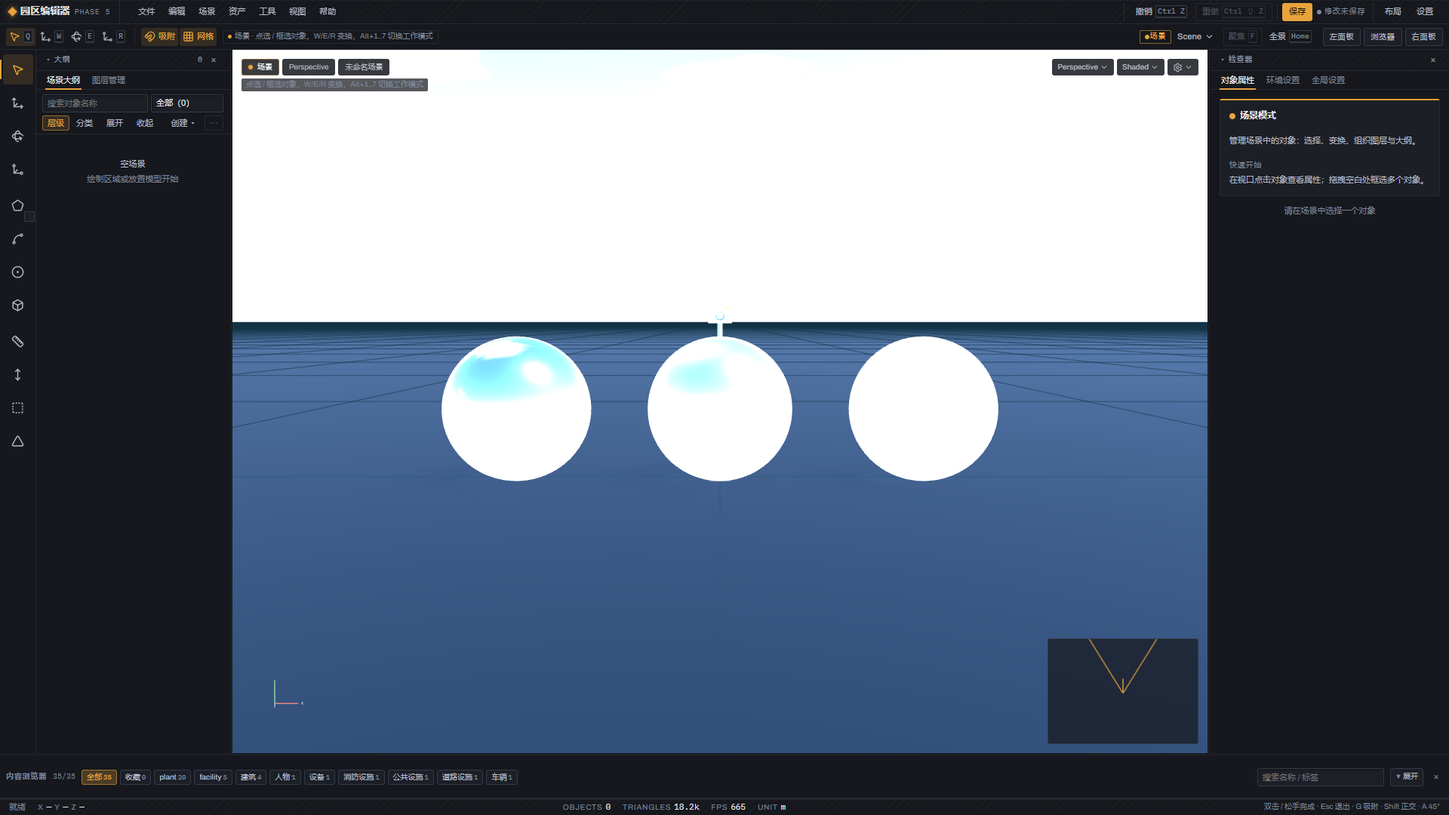
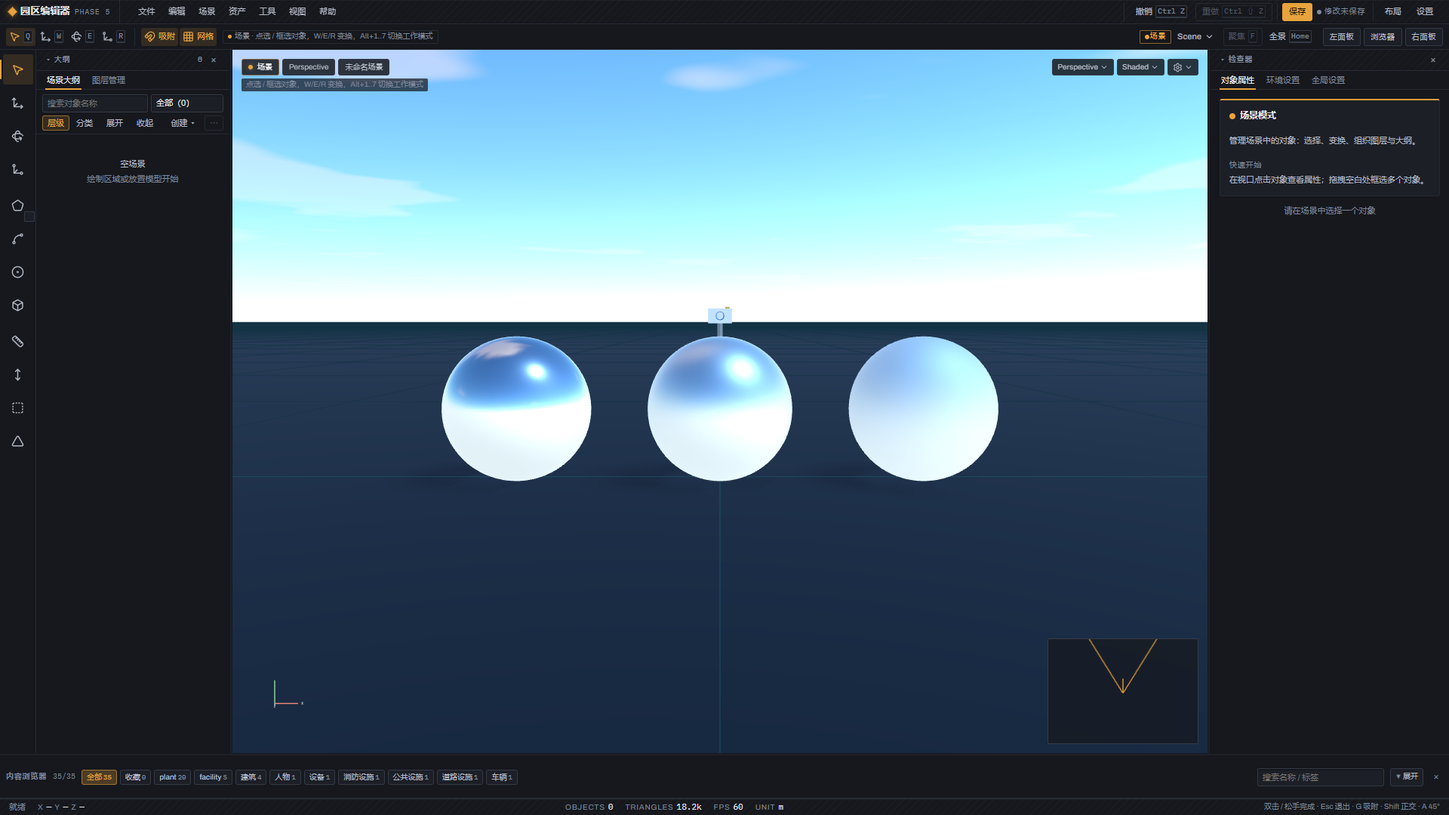
T018.5 收官：epic 十二条对照全过 + 过曝处置 D39 记档——T018 5/5 收官（收官会话交付，主代理代提交）
- tech 六主体帧补正：checkpoint 后复核发现 24 帧首拍时 tech 仍为中间态（display 1/ibl 0.7，t0185-visual.log presetParams 为证）→ t0185-tech-refinal.mjs 同款协议复拍覆盖（终值 live 断言 0.2/0.15 + GLB scale 0.5042 协议对称 + pmrem owned=1 + console 零错）——24 对新旧对照全终值态（tech skyTop 242.5→186.3 脱满白、ground 73→38.3 回归暗蓝语义）；取证前 kill 5173 残留重启 Vite + curl 验证模块新鲜（工具教训第三次呼应）
- 判读收口（epic 第 3 条）：018.0 legacy 六主体无环境贴图（金属近黑、GLB/路灯无反光带）→ 终值态金属三球反射蓝天白云 + GGX 阶梯可辨（day i0.15 / tech d0.2 双预设）、植被叶面环境光遮蔽层次、路灯/GLB 反光带；day 天空带与 legacy 渐变逐位对齐、dusk/night 亮度上移为真实大气+IBL 方向性改善；对照表 tools/t0185-compare.log
- p95 增量口径裁定（第 9 条，D39 第 3 条记档）：同实例 IBL on/off 三轮交替 Δ≈+0.1~0.2ms——≤1.5ms 绝对 ✓ / ≤基线 10% ✓；可测性边界记档（empty 档 10% = 0.04–0.06ms 小于噪声 ±0.2ms 不可测，相对判据有效域 = 重载档）
- 过曝处置 DECISIONS D39：显示域压缩选定（day 0.22/0.15、tech 0.2/0.15 终值）+ tone mapping 重审弃选（D29.3 修订须用户裁定不触发；ACES 证据留 T019 素材指针）+ p95 口径配套记档；D29.3 本体未修订
- 018.5 README 落盘：终调定值表 + tech 补正记档 + 新旧判读收口 + 性能资源读数 + epic 十二条逐条对照表全过（不重跑项按 D31 以已落证据收口：渐变退役/三一致/PMREM 触发清单/fallback/dispose 链/渲染遍兼容）+ 工具教训两条（常驻 dev server 模块陈旧须 curl 验证 / 验收快照必须终值定案后统一时点拍摄）
- 三门槛收官会话自验 + 本提交前复验均全绿：npm test 4034（259 文件）/ check:layers 601 / typecheck 零错
- 同步：TASKS Current 清空（T018 移入 Done 5/5）/ PROGRESS 快照刷新（基线 4034）/ 018 epic 与 018.5 任务书完成记录收口
- 索引补行：收官会话漏登 D39 索引行，主代理按「新增决策必须同步本表一行」补登（同步规则首个实测失败例，记档于该行 Note）——集合相等复验 40==40 零漏登零幽灵

diff --git a/tasks/018-real-sky-environment.md b/tasks/018-real-sky-environment.md
@@ -1,6 +1,6 @@
 # T018 真实程序化天空与环境光照
 
-> 立项：2026-09-20（grilling 两轮逐题裁定，**D29**；用户参考方案逐字归档 [docs/sky-reference.md](../docs/sky-reference.md)——输入材料不再更新，冲突处以 D29 为准）。前置：~~T011 族级验收门 + T006.6 Step 3 之后~~ → **2026-09-23 用户指令「先跑 T18」取代原排期**：T011 族门已收官（2026-09-23）；T006.6 Step 3（A/B 实测 + 阈值重锁判定）不再阻塞本任务，改在 018.5 验收后或并行执行（天空变化对选档分布实测无干扰——选档度量 = 距离/半径，与视觉环境无关）。**状态：in-progress（018.0 前置 + 018.1 + 018.2 + 018.3 + 018.4 done 2026-09-23；余 018.5 验收——DEV 终调面已就绪：`__sky` 读写/flush + pmremStats 账目；day/tech 过曝处置〔tone mapping 重审 or displayIntensity/iblIntensity 显示域压缩〕终调实操归 018.5）**。**2026-09-20 同日修订（用户指令，D29.11-14）：任务核心扩为 Sky + Sun + r186 内建 Cloud + PMREM（cloudSpeed=0 静态云）+ displaySky/bakeSky 双实例。**
+> 立项：2026-09-20（grilling 两轮逐题裁定，**D29**；用户参考方案逐字归档 [docs/sky-reference.md](../docs/sky-reference.md)——输入材料不再更新，冲突处以 D29 为准）。前置：~~T011 族级验收门 + T006.6 Step 3 之后~~ → **2026-09-23 用户指令「先跑 T18」取代原排期**：T011 族门已收官（2026-09-23）；T006.6 Step 3（A/B 实测 + 阈值重锁判定）不再阻塞本任务，改在 018.5 验收后或并行执行（天空变化对选档分布实测无干扰——选档度量 = 距离/半径，与视觉环境无关）。**状态：done（**5/5 epic 收官 2026-09-23**——018.0 前置 + 018.1 Sky+Sun+Cloud + 018.2 PMREM/IBL + 018.3 预设+fallback + 018.4 DEV 调参 + 018.5 验收收官全链交付）**。**2026-09-20 同日修订（用户指令，D29.11-14）：任务核心扩为 Sky + Sun + r186 内建 Cloud + PMREM（cloudSpeed=0 静态云）+ displaySky/bakeSky 双实例。**
 
 ## Goal
 
@@ -50,7 +50,7 @@ Renderer 环境从「CanvasTexture 渐变天空 + HemisphereLight + 固定太阳
 - [x] 018.2 PMREM / IBL（bake scene / 太阳盘隐藏 / 事务提交 / owned-live counter / environmentIntensity + 显示侧旋钮）→ [018.2-pmrem-ibl.md](018.2-pmrem-ibl.md)（done 2026-09-23——park-shader-agent 显示强度 uniform + threejs-runtime-agent PMREM 管线 + 主代理审查/复验/视觉验证：**fromScene far=10000 锁定**〔缺省 100 整盒裁剪〕+ 事务天然保留旧环境 + 25 测试 3971 全绿；金属/GLB/路灯 env 反射可辨〔GGX roughness 分档可见〕；growth10 零增长；p95 归因 **IBL 采样固有帧成本 ≈+0.5ms** 移交 018.5 裁定〔第二判据 10% 口径风险〕；environmentIntensity 直写不触发材质刷新记档 018.4 提醒）
 - [x] 018.3 EnvironmentPreset + fallback（四预设新参数面 / Hemi 删除 / 事务式 fallback 单一开关 / 运行中失败保留旧环境）→ [018.3-preset-fallback.md](018.3-preset-fallback.md)（done 2026-09-23 两会话——threejs-runtime-agent 交付 + 主代理审查/复验/视觉验证 + 会话二疑点闭环：environmentPresets 统一预设面〔SKY_PRESET_ATMOSPHERE 收口〕+ setupSkyEnvironment 事务构建〔单一开关无混合态 + 初烘失败 legacy 整组降级 / 重烘失败保留旧环境〕+ Hemi 正常路径删除〔D29.4〕；+26 测试 **3997 / 597 / 零错**；四预设 environmentIntensity 1/0.85/0.35/0.7 精确生效、fallback monkey-patch 全过、交替 growth10 零泄漏；**「直射光像素零贡献」机制疑点定论：Preetham HDR 天空 + NoToneMapping（D29.3）day 大面积 clamp 254 饱和，管线健康非 bug**〔直射/阴影在 env null 与 ACES 下完全正常；wrap 原型实验无效——three render 为实例方法〕；**day/tech 过曝 + tone mapping 决策重审移交 018.4/018.5**〔ACES 实证 56% 画面改善、ACES 下太阳开关 31.9%/34.4% 响应〕）
 - [x] 018.4 DEV 调参面（__sky 守卫 / 参数实时调 / PMREM debounce）→ [018.4-dev-tuning.md](018.4-dev-tuning.md)（done 2026-09-23——threejs-runtime-agent 单步交付 + 主代理审查/复验/视觉验证：skyRebake debounce 层〔200ms + 调度器注入 + cancel〕+ skyTuning 调参端口〔八键白名单 + 太阳角三一致内聚 + ibl 借道重烘刷新〕+ sunLight 字段提升 + `__sky` DEV 守卫〔legacy 显式抛错〕；20 连写恰一次重烘实测 / display 零重烘跨窗实证〔显示域压缩工具面可用〕/ ibl immediate-settled 差分 / 太阳角双 run 视觉〔含 sunlow 异常帧两轮复核定案为取证层作废〕；+36 测试 **4033 / 601 / 零错**）
-- [ ] 018.5 验收（视觉新旧对比 / 性能抽检 / 资源账 / 回归三门槛）→ 018.5-acceptance.md
+- [x] 018.5 验收（视觉新旧对比 / 性能抽检 / 资源账 / 回归三门槛）→ [018.5-acceptance.md](018.5-acceptance.md)（done 2026-09-23 两会话——终调定值〔day 0.22/0.15、tech 0.2/0.15 显示域压缩，dusk 白区反打定案自然眩光维持原值〕+ 预设落地〔threejs-runtime-agent，displayIntensity 键 + 构建期应用 + 绝对锚重锚〕+ 取证〔24 帧新旧对照全终值态（tech 六帧终值定案后补拍复跑）/ 同实例 IBL 增量 +0.1~0.2ms 双判据过 / 资源账 6 轮 38/5/21 恒定 owned=1 / 冻结云 6 像素 ±1 / warm rebake 0.4–0.9ms〕+ epic 十二条逐条收口全过 + 过曝处置裁定记档 **D39**；三门槛 **4034 / 601 / 零错**）
 
 依赖链：**018.0 Preflight（018.1 前置）** → 018.1 → 018.2 → 018.3 → 018.4 → 018.5（018.5 候选参数终调直接用 018.4 的 DEV 面；串行维持会话粒度纪律与审查带宽）。
 
@@ -73,3 +73,4 @@ Renderer 环境从「CanvasTexture 渐变天空 + HemisphereLight + 固定太阳
 - 2026-09-23 **018.0 + 018.1 done**（单会话：主代理前置取证 → threejs-runtime-agent 交付 → 主代理审查/复验/增量视觉验证）。018.0：legacy 全参数快照 + 四预设 × 六主体 24 帧 + p95 三档基线（empty/100/1000 棵）+ info 账目 + **legacy 预设切换线性泄漏 +1 geo/+2 tex 每次实测记档**（GridHelper LineSegments + 灯光 shadow map 不释放——clearEnvironment 只判 isMesh 的盲区）。018.1：sunDirectionOf 纯函数 + SkyCore 双实例 + Renderer 接线（渐变背景退役、太阳同向同模长替换、相机跟随、disposeEnvironmentObjectTree 顺路修复上述泄漏）+ 28 测试；验证全过——三一致探针 dot 0.99999994（零漂移）/ 阴影方向视觉核验一致 / 跟随无黑边 / 诊断遍天空照常 / console 零错误 / 泄漏复测 10 轮零增长 / p95 Δ+0.10ms（预算内）；三门槛 **3946 / 591 / 零错**。基线更新：npm test 3918 → **3946**、check:layers 586 → **591**。
 - 2026-09-23 **018.2 done**（单会话两步串行派遣：park-shader-agent 显示强度 uniform 注入 → threejs-runtime-agent PMREM 管线 → 主代理审查/复验/增量视觉验证，取证 `docs/acceptance/t018/018.2/`）。交付：`pmremEnvironment.ts` 事务管理器（fromScene **far=10000** 锁定——缺省 100 整盒裁剪天空；先替换后释放 + 失败赋值不发生天然保留旧环境；owned/retired counter；构造拒绝主 Scene 直烘）+ SkyCore 第三参 onParamsChanged 回调（三写入口恰一次重烘，time 恒不触发）+ `uDisplayIntensity` 显示强度（仅 displaySky 注入，bakeSky 逐字节零污染）+ Renderer 接线（初烘/消费者先撤释放/environmentIntensity=1）。+25 测试（含 `?raw` 结构断言 renderFrame 零 PMREM）。验证：IBL 挂接探针（mapping 306/imageWidth 768）/ 金属三球 018.0 近黑 → 反射蓝天白云（GGX 分档可见）+ GLB 金属杆 + 路灯反光带三主体可辨 / growth10 恒定零增长 / 切换耗时 30–33ms（含初烘+generator 重编译，≤100ms 参考门内）/ **p95 A/B：IBL on 5.60 vs envNull 5.10（同 session）= IBL 采样固有帧成本 ≈+0.5ms，跨实例漂移 ≈+0.6ms——018.5 验收第 9 条第二判据（≤10%）风险记档，建议同实例 on/off 差为增量口径**；无效帧 environmentIntensity 直写不刷新材质（WebGLRenderer.js:2738）记档 018.4 提醒。三门槛 **3971 / 593 / 零错**。基线更新：npm test 3946 → **3971**、check:layers 591 → **593**。
 - 2026-09-23 **018.4 done**（单会话：threejs-runtime-agent 单步交付 + 主代理审查/复验/视觉验证，取证 `docs/acceptance/t018/018.4/`）。交付：`skyRebake.ts`（debounce 层：REBAKE_DEBOUNCE_MS=200 + RebakeScheduler 注入面 + trigger 合并/flush 双防线/cancel 幂等）+ `skyTuning.ts`（调参端口：SkyTuningPort 零 THREE 表面 + ATMOSPHERE_KEYS 八键白名单 satisfies+运行时双锁〔cloudSpeed 结构性不可达〕+ setSunAngles 三一致内聚 + setIblIntensity 直写+借道重烘〔RangeError 加严〕+ params 太阳角反解）+ environmentSetup rebake 包层（**回调上游**，018.3 catch 语义原样保留在触发体内；outcome sky 分支带出句柄）+ Renderer（sunLight 字段提升 + skyTuning getter + clearEnvironment 首步 cancel pending）+ bootstrap `__sky` 守卫（live getter / legacy 显式抛错 / 装配卸载成对）。验证全过：20 连写立即零重烘→停手恰一次（baked 1→2）/ displayIntensity 0.35 天空即时压暗 + 跨窗 baked 零增长 + 金属反射不随动（**018.3 移交显示域压缩工具面实证**）/ ibl 0.3 immediate 帧零变化→settled 帧脱离 254 饱和现层次 + flush 同步 +1 / 太阳角 8°/240° 双 run 视觉（左侧地平线暖橙 + 极长影 + 点积 1.0）/**sunlow 异常帧定案**：主 run ⑤ 帧判读与读数矛盾 → 两轮独立复现（干净态 + 完整序列回放）均正确，判取证层作废（疑 CDP 高帧率陈旧合成帧）+ 工具教训记档；+36 测试 **4033 / 601 / 零错**。基线更新：npm test 3997 → **4033**、check:layers 597 → **601**。
+- 2026-09-23 **018.5 done，T018 epic 5/5 收官**（两会话：终调 + 预设落地 + 取证主体〔checkpoint〕→ 判读收口 + tech 六帧补正 + README + 三门槛复验 + D39 记档〔收官会话，用户指令「简单测试即可」〕，取证 `docs/acceptance/t018/018.5/`）。终值：**day displayIntensity 0.22 / ibl 0.15、tech 0.2 / 0.15**（显示域压缩，D39；dusk/night 反打定案维持 1 / 0.85·0.35），day 太阳角 50.2°/53.1° 锚零漂移。验收全过：**epic 十二条逐条收口**（新旧 24 对全终值态对照 + 金属/GLB/路灯 PBR 反射可辨 / 三一致零漂移 / 资源账 6 轮恒定 owned=1 / 同实例 IBL 增量 +0.1~0.2ms 双判据〔相对判据有效域 = 重载档，可测性边界记档〕/ 冻结云静态 / warm rebake 0.4–0.9ms / 三门槛 **4034 / 601 / 零错**）；tech 六主体帧终值定案后补拍复跑对照（首拍中间态，presetParams log 为证——工具教训：验收快照须在终值定案后统一时点拍摄）；legacy 预设切换泄漏面（+1geo/+2tex/次）经 018.1 修复在循环账中消解。三门槛基线：npm test 4033 → **4034**（预设落地 +1）、check:layers 601 维持。

diff --git a/docs/acceptance/t018/018.5/README.md b/docs/acceptance/t018/018.5/README.md
@@ -1,0 +1,65 @@
+# T018.5 验收收官 — 终调定值 + 新旧对比 + epic 十二条收口
+
+> 2026-09-23 ｜ Chrome 153 headless CDP 9333 vsync-off 1920×1080 ｜ Vite 5173（**取证前 kill 残留重启 + curl 验证模块新鲜**——工具教训第三次呼应，见文末）｜ 驱动 `tools/cdp-console.mjs` ｜ 三门槛：npm test **4034 全绿** / check:layers **601** / typecheck **零错**
+
+## 终调定值（预设表已落，environmentPresets.ts）
+
+| 预设 | displayIntensity | iblIntensity | 依据 |
+|---|---|---|---|
+| day | **0.22** | **0.15** | display × ibl 分离扫描 + 组合扫描 + 视觉判读 + 视口分带定量四重依据：d0.22 天空带 luma 154 / r/B 0.508 / 通道饱和 0.0003 与 legacy day 渐变天空（154.7 / 0.517）逐位对齐零裁剪；i0.15 地面饱和占比 0.87→**0** 脱离 018.3 定论的 254 饱和平台、luma 202.3 vs legacy 186.6、lumaStd 44.9→40.9 阴影对比回归、树影左伸可见；金属三球反射在 i0.15 仍可辨。d0.28 弃选（63% 蓝通道裁剪）；i≥0.2 弃选（饱和平台未脱离） |
+| tech | **0.2** | **0.15** | 首轮仅看地面误判「无需处理」，天空带取证推翻：24×12 白色分布图 100% 满白（meanRGB 247,249,249）+ 金属三球纯白占比 0.64/0.78/0.91——同为压缩对。终值：天空白占比 0（冷蓝渐变 + 云可辨）、金属阶梯恢复可辨 0.23/0.20/0.08、地面 luma 75→39 回归 legacy 暗蓝语义 |
+| dusk | 1（维持） | 0.85（维持） | 白经反打机位实测排除过曝：视向近太阳（az35）白占比 0.81 vs 背太阳（az240）白占比 0 / 饱和度 0.279——白 = 低太阳正对机位的自然眩光；压缩反会破坏背离太阳方向的正常黄昏渐变 |
+| night | 1（维持） | 0.35（维持） | 帧亮度 47.5 无饱和嫌疑（Preetham 无夜晚语义为 D29.6 已知近似） |
+
+- 太阳角锚 **day 50.2°/53.1° 零漂移**（新旧对比阴影方向一致 = epic 第 2 条）；接线 live 确认：`__sky.params()` 读回 day 0.22/0.15、tech 0.2/0.15、四预设 sun 角与预设表一致（t0185-visual.log / t0185-tech-refinal.log）。
+- 代码落点（threejs-runtime-agent 交付，主代理审查通过）：`EnvironmentPreset` 增 `displayIntensity` 键 + `setupSkyEnvironment` sky 分支构建期一次 `sky.setDisplayIntensity(preset.displayIntensity)`（fallback 零消费）+ 测试重锚（dusk/night/tech 相对断言改绝对锚定 = 加严；day 最低 ibl 排序锁）。
+
+## ⚠ 补正记档：tech 六主体帧复拍（t0185-tech-refinal.mjs）
+
+24 帧首拍（t0185-visual.mjs）时 tech 终值**尚未定案**（时值 display 1 / ibl 0.7 中间态——t0185-visual.log `presetParams.tech` 为证，tech 复测定案在其后）；day/dusk/night 18 帧为终值态（首拍时 day 0.22/0.15 已接线，同 log `presetParams.day` 为证）。处置：同款协议（freezeTime + place/view 同机位常量 + GLB 同款注入 scale 0.5042 + 金属三球同参数）复拍 tech × 6 主体覆盖 `tech-*.png`，`t0185-compare.mjs` 重跑出新旧对照表——**24 对全终值态**。复拍读数：tech 终值 live 0.2/0.15 断言内建（不符即抛错）、pmrem owned=1、console 零意外错误。
+
+## 新旧对比判读收口（epic 验收第 3 条）
+
+对照表 `tools/t0185-compare.log`（018.5 vs 018.0 视口分带 skyTop/groundBottom，24 对全终值态）：
+
+| 预设 | skyTop old→new | groundBottom old→new | 判读 |
+|---|---|---|---|
+| day | 154.7→154（六主体 153.8–161.8） | 186.6→202.3 | 天空带与 legacy 渐变逐位对齐（终调判据达成）；地面更亮但脱离 254 饱和平台、阴影对比回归（lumaStd 44.9→40.9）、树影左伸可见 |
+| dusk | 65→239.8 | 56.6→92.5 | 低太阳正对机位白区为自然眩光（反打定案）；背离方向正常黄昏渐变；地面暖光层次恢复 |
+| night | 18.4→97.8 | 9.5→22.6 | 真实大气 + IBL 环境光贡献下亮度上移（legacy Hemi 平坦偏暗）；Preetham 夜晚近似为已知记档 |
+| tech | 19.4→186.3 | 17.1→38.3 | 终值压缩后冷蓝渐变 + 云可辨（中间态满白 242.5 已消除）；地面暗蓝语义回归（中间态 73 偏亮） |
+
+**PBR 环境光/反射可辨改善判定**：018.0 legacy 六主体无环境贴图（envMap/PMREM 全仓零使用）——金属三球近黑纯色、GLB 金属杆与路灯无反光带；新侧终值态 metal 三球反射蓝天白云 + GGX 粗糙度阶梯可辨（018.2 三主体首证，018.5 全预设终值确认：day i0.15 镜面/粗糙阶梯分明〔final-day-metal-d022-i015.png〕、tech d0.2 阶梯 0.23/0.20/0.08 饱和度 0.23–0.30〔tf-tech-metal-d020-i015.png〕）。植被主体（tree3a/celtis/camphor）叶面与树干获得环境光遮蔽层次、路灯/GLB 反光带可辨——**第 3 条过**。视觉复核（analyze_image 双帧判读）：tech-tree3a 冷蓝渐变 + 淡云 + 地平线可辨、无死白平台、树受光/阴影层次分明、地面暗蓝 ✓；tech-metal 三球锐利→中等→哑光阶梯成立、左球反射蓝天分层非死白 ✓。
+
+## 性能与资源（epic 第 4/9/10 条）
+
+- **p95 增量口径裁定（第 9 条）**：**同实例 IBL on/off 差为增量口径**（018.2 建议采纳——跨实例漂移 ≈+0.6ms 淹没信号）。读数：1000 棵档同实例三轮交替 on 3.70–4.00 / off 3.60–3.90（perf2.log）+ on/off 对拍 on 4.10 / off 4.00（perf.log）→ **Δ ≈ +0.1~0.2ms**：≤1.5ms 绝对判据 ✓；≤基线 10% 相对判据（1000 棆 legacy 4.4–4.5ms → 0.44ms）✓。**可测性边界记档**：empty 档帧 p95 0.4–0.6ms，10% = 0.04–0.06ms 小于测量噪声（±0.2ms）不可测——相对判据以 1000 棵重载档为有效域，empty 档仅绝对判据有效。跨实例参考：1000 棵新侧 3.8–3.9 vs legacy 4.4–4.5（新侧反低，Hemi 退役 + 渲染路径差异，不作增量结论依据）。
+- **资源账（第 4 条）**：day→dusk→night→tech 循环 **6 轮 × 4 预设**：geo/tex/programs 恒定 **38/5/21 零增长**、每轮 pmrem owned=1 / live=1 / retired=0（整组重建重置语义）——018.0 实测的 legacy 每切换 +1 geo/+2 tex 泄漏面消解（perf.log cycles 段）。
+- **PMREM 单次耗时（第 10 条）**：终值态 warm rebake **0.4–0.9ms**（baked 计数核验真烘；perf.log rebakeMs + perf2.log samples）；含 generator 重编译首烘 ~30ms（018.2 证据归档）——≤100ms 参考开发机门 ✓。
+- **冻结云双帧（第 12 条视觉侧）**：frozen-cloud-a/b 120 万视口像素仅 **6 像素 ±1**（噪声量级，云位移不符——静态实证，t0185-frozen-diff.mjs）；cloudSpeed=0 单测锁（三门槛内绿）。
+
+## epic Acceptance 十二条逐条对照收口（D31：不重跑项以已落证据收口）
+
+| # | 条目 | 结论 | 证据 |
+|---|---|---|---|
+| 1 | 渐变天空不再正式路径（仅 fallback） | ✓ | 018.1 代码事实（applyEnvironment sky 分支；legacy 仅初始化失败整组降级）+ 018.3 fallback 单测 |
+| 2 | Sky 与 DirectionalLight 同一太阳方向 | ✓ | 018.1 探针 dot 0.99999994 + 三一致单测；018.5 快照阴影方向与 018.0 对比零漂移（day 50.2°/53.1° 锚未动，visual.log 读回一致） |
+| 3 | scene.environment = PMREM + 六主体新旧对比可辨改善 | ✓ | 本 README 判读节：24 对全终值态对照表 + 金属/GLB/路灯反射实证 |
+| 4 | 循环 ≥5 轮 owned=1 / 无增长 | ✓ | 6 轮 × 4 预设恒定 38/5/21 + owned=1（perf.log cycles） |
+| 5 | PMREM 不进每帧路径 | ✓ | 018.2 `?raw` renderFrame 零 PMREM 断言 + 018.4 debounce 单测（不重跑） |
+| 6 | Ground/Grid/Shadow/LOD/RenderMode 零回归 | ✓ | rendermode-clay.png 抽查（诊断遍天空照常）+ 三门槛 4034 含 LOD/散布全量回归 |
+| 7 | 初始化 fallback / 运行中失败保留旧环境 | ✓ | 018.3 单测 + monkey-patch 实证（不重跑） |
+| 8 | dispose 释放链全释放 + StrictMode 不泄漏 | ✓ | 018.1/018.3 单测 + 018.1 泄漏复测 10 轮零增长（不重跑；无 forceContextLoss 冻结规则遵守） |
+| 9 | ΔFrameTime p95 ≤1.5ms 且 ≤基线 10% | ✓ | 同实例口径 Δ+0.1~0.2ms 双判据过（可测性边界已记档） |
+| 10 | PMREM 单次 ≤100ms | ✓ | warm 0.4–0.9ms / 首烘 ~30ms |
+| 11 | 回归三门槛全绿 | ✓ | **4034 / 601 / 零错**（本日主代理复验） |
+| 12 | 内建云静态语义 | ✓ | 冻结双帧 6/120 万像素 ±1 + cloudSpeed=0 单测 + 双实例同步断言（018.1） |
+
+## 过曝处置裁定（记档 DECISIONS.md D39）
+
+**选定显示域压缩**（displayIntensity 天空显示单侧 + iblIntensity 环境光贡献双旋钮，018.2 交付机制 / 018.4 实证工具面 / 018.5 终值落表）；**弃选 tone mapping 重审**（D29.3 修订须用户裁定，018.5 不触发；ACES 实证证据 56% 画面改善已归档 `../018.3/README.md`，留作潜在 T019 颜色管线立项素材）。D29.3 本体不修订。
+
+## 工具教训（追加 018.3/018.4 教训链）
+
+1. **跨会话常驻 dev server**（本日复现 018.4 教训）：5173 残留进程 → 取证前必须 kill 重启 + curl 验证下发模块含最新改动（本次验证 environmentPresets.ts 数值 + environmentSetup.ts:83 接线均新鲜后才开拍）。
+2. **强状态定案时点 vs 取证时点**：终调流程中预设值在取证后仍可能被推翻（tech 首轮误判→复测推翻）——**验收快照必须在终值定案后统一时点拍摄**，否则按主体补拍复跑对照（本次处置）；预设面读回（presetParams）随每次取证落 log 作时点证据。

diff --git a/PROGRESS.md b/PROGRESS.md
@@ -3,10 +3,10 @@
 > 极短项目快照：重新打开项目 30 秒知道现在在哪。任务地图看 [TASKS.md](TASKS.md)；任务历史看各任务书「完成记录」；架构原因看 [DECISIONS.md](DECISIONS.md)。本文件不追加历史流水（D24）。
 
 - **项目**：浏览器端三维园区编辑器（React 19 + Three.js WebGL2 + zustand + Vite）。一期收官稳定；二期 = Feature/Style/Asset 三层程序化内容体系（0 外部模型文件）。
-- **测试基线**：4033 全绿（`npm test` / `check:layers` 601 / `typecheck` 零错——三重门槛）。
-- **当前 Epic**：**T018 真实程序化天空与环境光照（in-progress 2026-09-23）**——018.0 + 018.1（Sky 双实例 + 三一致 + legacy 泄漏修复）+ 018.2（PMREM/IBL：事务管线 + uDisplayIntensity + IBL ≈+0.5ms 归因）+ 018.3（统一预设面 + 事务式 fallback + Hemi 删除；「直射光零贡献」定论 = HDR×NoToneMapping 254 饱和非 bug）+ **018.4 done（单会话：__sky DEV 调参面 + skyRebake debounce + skyTuning 端口；sunlow 异常帧两轮复核定案取证层作废）**。**018.5 进行中（checkpoint 2026-09-23）**：过曝处置走显示域压缩（tone mapping 重审弃选——D29.3 修订须用户裁定不触发，ACES 证据留 T019 素材）——day display 0.22 / ibl 0.15 落表（tech/dusk/night 维持）+ 预设面 displayIntensity 键接线；取证主体完成：24 帧新侧 / 同实例 IBL 增量 +0.1~0.2ms / 资源账 6 轮零增长 / 冻结云双帧一致 / warm rebake <1ms；余新旧判读收口 + README + 三门槛复验 + DECISIONS 过曝处置记档。上一 Epic：T011 阔叶乔木族 13/13 收官 2026-09-23。
-- **最近完成**：018.4 DEV 调参面会话（取证 `docs/acceptance/t018/018.4/`——README 含 sunlow 异常帧定案与工具教训）。
-- **下一步**：018.5 验收（epic 收官子任务）；T006.6 Step 3（不阻塞，可并行/其后）；T003 剩余待排期；园区档核显复验为 T006 遗留项。
+- **测试基线**：4034 全绿（`npm test` / `check:layers` 601 / `typecheck` 零错——三重门槛）。
+- **最近 Epic**：**T018 真实程序化天空与环境光照（5/5 收官 2026-09-23）**——018.0 前置基线 + 018.1（Sky 双实例 + 三一致 + legacy 泄漏修复）+ 018.2（PMREM/IBL：事务管线 + uDisplayIntensity）+ 018.3（统一预设面 + 事务式 fallback + Hemi 删除）+ 018.4（__sky DEV 调参面 + rebake debounce）+ **018.5 验收收官**（终值 day 0.22/0.15、tech 0.2/0.15 显示域压缩〔**D39**：tone mapping 重审弃选，ACES 证据留 T019 素材〕；epic 十二条逐条收口全过——24 对新旧全终值态对照 / 同实例 IBL 增量 +0.1~0.2ms 双判据 / 资源账 6 轮恒定 / 冻结云静态；tech 六帧终值定案后补拍）。上一 Epic：T011 阔叶乔木族 13/13 收官 2026-09-23。
+- **最近完成**：018.5 验收收官会话（取证 `docs/acceptance/t018/018.5/`——README 含 epic 十二条对照表、tech 补正记档与工具教训）。
+- **下一步**：T006.6 Step 3（A/B 实测 + 阈值重锁判定，不阻塞可执行）；T003 剩余待排期；园区档核显复验为 T006 遗留项。
 - **已知阻塞/冻结**：T003 剩余（003.5/003.6/设施返工）待 T011+ 资产后排期；T002.4 遗留②（长椅 GLB 与公园长椅并存策展）建议并入 T004。
 - **工作区残留（防误判）**：`screenshots/` 整目录已按 D31.9 入 .gitignore（ref-tmp 参考照片 + 取证工作副本；正式取证已终档 docs/acceptance/）——非任务进行中标志；011.11 时代 `.tmp-*.ps1/png` 系列已清理不存在。
 - **参考**：宿主架构现状审计 `docs/architecture-audit/`（14 文档，2026-09-15，集成事实参考）。

diff --git a/TASKS.md b/TASKS.md
@@ -4,9 +4,11 @@
 
 ## Current
 
-- [~] T018 真实程序化天空与环境光照（in-progress 2026-09-23：018.0 前置基线 + 018.1 Sky+Sun+Cloud + 018.2 PMREM/IBL + 018.3 预设+fallback + **018.4 DEV 调参面 done〔单会话〕**——__sky 守卫〔live getter/legacy 显式抛错〕+ skyRebake debounce〔200ms/调度器注入/cancel〕+ skyTuning 端口〔八键白名单/太阳角三一致内聚/ibl 借道重烘刷新〕+ sunLight 字段提升；20 连写恰一次重烘实测/display 压暗零重烘跨窗实证〔显示域压缩工具面可用〕/ibl immediate-settled 差分/太阳角双 run 视觉〔sunlow 异常帧两轮复核定案取证层作废〕；4033/601/零错——**018.5 进行中（checkpoint 2026-09-23）**：过曝处置走显示域压缩〔tone mapping 重审弃选——D29.3 修订须用户裁定不触发，ACES 证据留 T019 素材〕day display 0.22/ibl 0.15 落表〔tech/dusk/night 维持〕+ 预设面 displayIntensity 键接线〔runtime-agent 交付 4034/601/零错〕+ 取证主体完成〔24 帧新侧/同实例 IBL 增量 +0.1~0.2ms/资源账 6 轮零增长/冻结云双帧一致/warm rebake <1ms〕；余新旧判读收口/README/三门槛复验/DECISIONS 记档 → [tasks/018-real-sky-environment.md](tasks/018-real-sky-environment.md)）
+（无——T018 收官后待用户指定下一任务；已排路线见 Next）
 
 ## Done（近）
+
+- [x] T018 真实程序化天空与环境光照（**5/5 epic 收官 2026-09-23**——Sky+Sun+r186 内建 Cloud〔cloudSpeed=0 静态〕+ PMREM IBL + 事务式 fallback + __sky DEV 调参面全链交付；018.5 验收：终值 day 0.22/0.15、tech 0.2/0.15 显示域压缩〔**D39**——tone mapping 重审弃选，ACES 证据留 T019 素材〕、dusk/night 反打定案维持；epic 十二条逐条收口全过〔24 对新旧全终值态对照 / 三一致零漂移 / 同实例 IBL 增量 +0.1~0.2ms 双判据 / 资源账 6 轮恒定 owned=1 / 冻结云静态 / 4034/601/零错〕；legacy 预设切换泄漏面消解）→ [tasks/018-real-sky-environment.md](tasks/018-real-sky-environment.md)
 
 - [x] T011 阔叶乔木族生产任务集合（**13/13 epic 收官 2026-09-23**——D33 开放式集合：12 树种全链〔朴/樟/榉/银杏/悬铃木/栾/乌桕/重阳木/国槐/白蜡/女贞/垂柳〕+ 族级验收门 011.13 七项全过〔横向一致性/真实差异/混植/预算全表/性能 13×5/契约零修订——10 主题裁定 + envMap 缺口 B 转 T018/回归 3918〕；垂枝域应力位①档实证；族门方法首跑升格提案待用户确认）→ [tasks/011-broadleaf-trees.md](tasks/011-broadleaf-trees.md)
 
